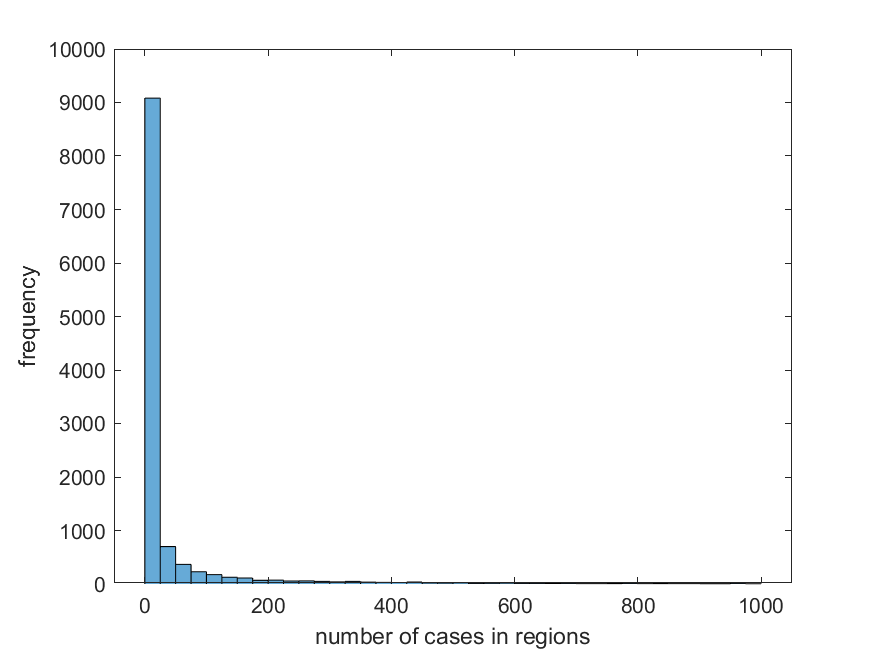
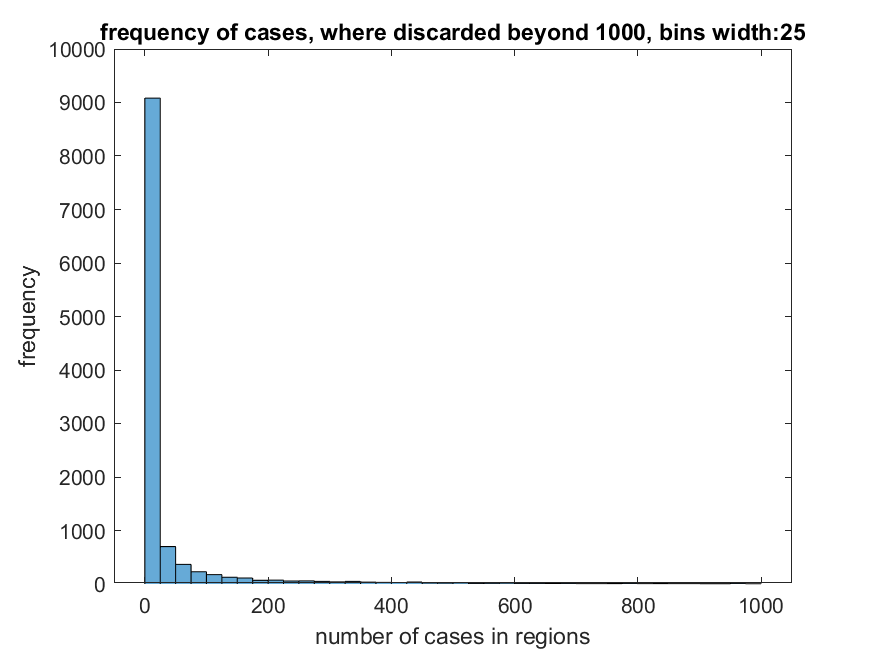
matlab intermediate exercises up to 1j first graph

Changed region(s): [[0.0926, 0.0305, 0.9257, 0.061]]

diff --git a/matlab/covid_exercise.m b/matlab/covid_exercise.m
@@ -2,7 +2,7 @@ clc
 clear variables
 covid_table = readtable("COVID-19-geographic-disbtribution-worldwide.xlsx");
 
-%% 1c-1g)
+%% 1c-1e)
 cases_number=covid_table.cases;
 % create histogram with bins_width=100, for cases_number<=1e3
 save_histogram_cases(cases_number,100,1e3);
@@ -11,37 +11,52 @@ save_histogram_cases(cases_number,5,1e2);
 % create histogram with bins_width=25, for cases_number<=1e3
 save_histogram_cases(cases_number,25,1e3);
 
-% ECDF: empirical cumulative distribution function
-% ECDF cases Israel vs Britain(UK: United Kingdom)
+%% 1f-1g)
+% cumulative sum cases Israel vs Britain(UK: United Kingdom)
 % where jump equal to 10 days.
-
+clc
 countries={'Israel','United_Kingdom'};
-days_jump=10;
-for country_index=1:length(countries)
-    % where_country contains a logical array for the country indices in
-    % covid_table
-    where_country=strcmp...
-        (covid_table.countriesAndTerritories,countries{country_index});
-    % create ceil of date and cases in country
-    date_cases_country=covid_table(where_country,[1,5]);
-    ECDF_cases_country=cumsum(date_cases_country.cases,'reverse');
-    subplot(2,1,country_index)
-    plot(date_cases_country.dateRep(1:days_jump:end),...
-        ECDF_cases_country(1:days_jump:end),...
-        '--o','DatetimeTickFormat','dd-M-yy')
-    country_name=strrep(countries{country_index},'_',' ');
-    title(['ECDF of num cases for ',country_name,', total: ',num2str(ECDF_cases_country(1))])
-    disp(['total number of cases in ',country_name, ' is :',...
-        num2str(ECDF_cases_country(1))])
-end
+% where_country contains a logical array for the countries indices in
+% covid_table
+where_country=ismember(covid_table.countriesAndTerritories,countries);
+% date and cases of Israel and UK
+dates_cases_country=covid_table(where_country,[1,5,11]);
+group_country=findgroups(dates_cases_country.countriesAndTerritories);
+ax=splitapply(@cumsum_country,dates_cases_country,...
+    group_country,group_country);
+linkaxes(ax,'x');
+saveas(gcf,'figures/cumsum_of_cases.png')
+close all
+%% ECDF
+% ECDF: empirical cumulative distribution function
+%compute histogram based on ecdf
+[ecdf_values,x]=ecdf(covid_table.cases);
+plot(x,ecdf_values)
+xlabel('cases')
+title('ECDF of cases')
 saveas(gcf,'figures/ECDF_of_cases.png')
 close all
 
 %% 1h-1i)
 %Boxplot represents the validity of results. It displays the spread of 
-% data around its mean.
+% data around its median.
 % Boxplot num cases for country for day
 boxplot(covid_table.cases)
 title('spread of num of cases per country per day')
 saveas(gcf,'figures/boxplot_num_cases.png')
 
+%% 1j)
+% extract the columns: cases, deaths
+dates_cases_country=covid_table(:,[5,6]);
+[group_country,countries]=findgroups(covid_table.countriesAndTerritories);
+% apply mean_cases_mean_deaths function to each country:
+means_differences=splitapply(@mean_cases_mean_deaths,dates_cases_country.cases,dates_cases_country.deaths,group_country);
+% means_differences is a cell, where in each cell we have array of mean
+% differences.
+countries_indices=cellfun(@cell_length,means_differences,num2cell((1:length(countries)).'));
+boxplot(cell2mat(means_differences),cell2mat(countries_indices));
+xlabel('countries')
+ylabel('mean(Cases) - mean(deaths)')
+title('countries are columns, measurement: 10 days')
+saveas(gcf,'figures/boxplot_per_country.png')
+close all

diff --git a/matlab/mean_cases_mean_deaths.m b/matlab/mean_cases_mean_deaths.m
@@ -1,0 +1,22 @@
+function mean_differences = mean_cases_mean_deaths(cases,deaths)
+% input:
+% cases and deaths number for each day in specific country.
+%
+% output:
+%ceil with entries contain mean(Cases) - mean(deaths) for each 10 days.
+number_days=length(cases);
+% we calculate the mean for each 10 days, thus we need to treat the case
+% where the number of days does not divide by 10:
+% simple solution:
+% ignore last days: for e.g.
+% cases=cases(floor(number_days/10))
+% otherwise: we can apply mean to the last group even if has less days.
+% divide the matrix to cells each contains at most 10 days.
+% valid only for column vectors.
+% pay attention that each country has different number of days.
+divide_groups=[10*ones(1,floor(number_days/10)),mod(number_days,10)];
+mean_cases= cellfun(@mean,mat2cell(cases,divide_groups));
+mean_deaths= cellfun(@mean,mat2cell(deaths,divide_groups));
+mean_differences ={mean_cases-mean_deaths};
+end
+

diff --git a/matlab/cumsum_country.m b/matlab/cumsum_country.m
@@ -1,0 +1,20 @@
+function ax=cumsum_country(dates,cases,country,index_sub_plot)
+% input:
+% gets dates and cases for each country
+% country : country name 
+% index_sub_plot: index for subplotting
+% The function evaluates the cumsum of cases for specific country and
+% displays it in subplot.
+days_jump=10;
+
+cumsum_cases_country=cumsum(cases,'reverse');
+ax=subplot(2,1,index_sub_plot(1));
+plot(dates(1:days_jump:end),...
+    cumsum_cases_country(1:days_jump:end),...
+    '--o','DatetimeTickFormat','dd-M');
+%flip the array for sorting it in ascending order
+xticks(flipud(dates(1:days_jump:end)))
+country_name=strrep(country{1},'_',' ');
+title(['cumsum of num cases for ',country_name,', total: ',num2str(cumsum_cases_country(1))])
+grid on
+end

diff --git a/matlab/save_histogram_cases.m b/matlab/save_histogram_cases.m
@@ -14,8 +14,9 @@ cases_smaller_bound=cases_number(cases_number<=upper_bound_cases);
 histogram(cases_smaller_bound,0:bins_width:upper_bound_cases)
 xlabel('number of cases in regions')
 ylabel('frequency')
+title(['frequency of cases, where discarded beyond ',...
+    num2str(upper_bound_cases),', bins width:',num2str(bins_width)])
 saveas(gcf,['figures/frequency_of_cases_in_regions_discarded_outliers_beyond_',...
     num2str(upper_bound_cases),'_bins_width_',num2str(bins_width),'.png'])
 close all
 end
-

diff --git a/matlab/cell_length.m b/matlab/cell_length.m
@@ -1,0 +1,5 @@
+function country_name_list = cell_length(list,country)
+%create cell with multiple country entries
+country_name_list={repmat(country,length(list),1)};
+end
+
